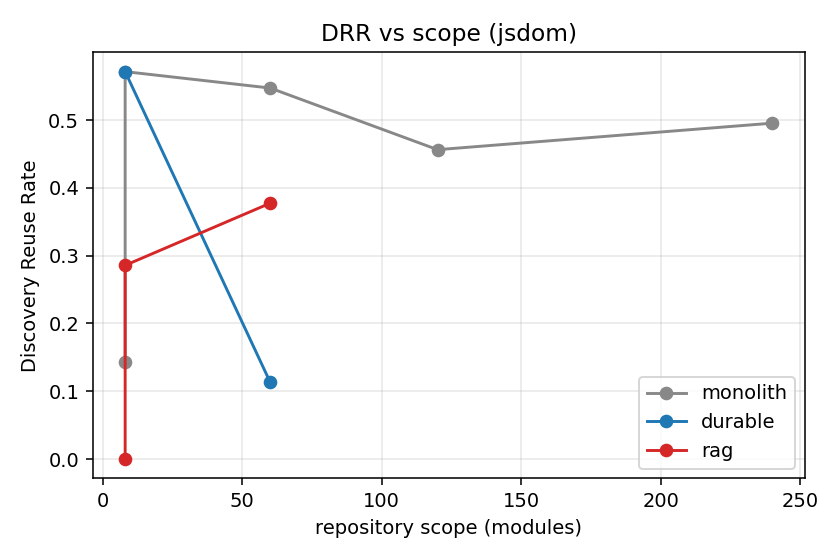
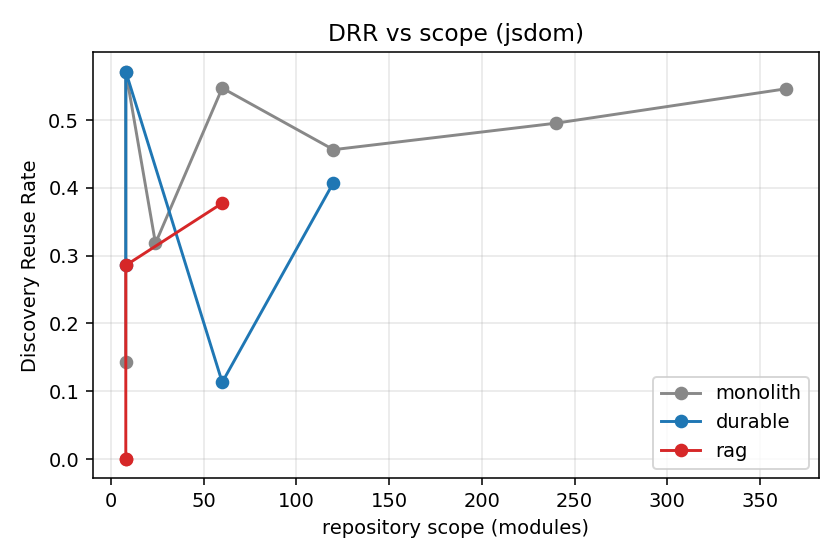
paper+analysis: breaking point, three-way failure taxonomy, confound
- Paper §4.1: monolith clean to 240, cracks at FULL(364) by capacity
  (16 strict-type errors, TS2322/TS2571), not by context window.
- §4.3 new: three-way failure taxonomy — RAG fails by conflict (TS2451
  only in RAG), monolith by capacity (TS2571 only in monolith), durable
  by neither. Central mechanistic claim.
- §6: document jsdom webidl build-coupling confound; static axis primary.
- analyze.py: fill TS2571/2717/2739/2430/2551 meanings; regen tables+figs.

diff --git a/harness/analyze.py b/harness/analyze.py
@@ -102,6 +102,11 @@ TS_MEANING = {
     "2322": "type not assignable",
     "2339": "property does not exist on type",
     "2345": "argument type not assignable",
+    "2430": "interface incorrectly extends interface",
+    "2551": "property does not exist (no near-match)",
+    "2571": "object is of type 'unknown' (un-narrowed)",
+    "2717": "subsequent property decls must have same type",
+    "2739": "type missing required properties",
     "7006": "parameter implicitly has 'any' type",
     "7016": "could not find a declaration file for module",
 }

diff --git a/paper/paper.md b/paper/paper.md
@@ -18,13 +18,18 @@ evolving tree, and a *stateless-RAG* arm whose per-file workers retrieve context
 but never see each other's results. We find: (1) a single modern agentic worker
 already scales much further than the naive context thesis predicts — it cleanly
 migrates **120** interdependent jsdom modules `[live: 240]` by navigating the
-filesystem on demand rather than cramming a working set into the prompt; (2) when
-work is decomposed for parallelism, **durable accumulation strictly dominates
-stateless retrieval** — RAG's independent workers emit code that does not even
-compile, while durable does not; and (3) durable state confers a structural
-property no single transcript can: **interruption-resumable, consistent
-checkpoints**. The contribution is a reframing — *state is an asset, not a prompt*
-— with controls that isolate which capability actually matters.
+filesystem on demand rather than cramming a working set into the prompt — cleanly
+migrating up to **240** interdependent jsdom modules — but it **does crack at the
+full 364-module tree**, leaving residual strict-type errors on the hardest module
+(a *capacity* failure, not a conversion failure); (2) when work is decomposed for
+parallelism, **durable accumulation strictly dominates stateless retrieval** —
+RAG's independent workers emit code that does not even compile (`TS2451`
+redeclaration conflicts appear *only* in RAG), while durable does not; and (3)
+durable state confers a structural property no single transcript can:
+**interruption-resumable, consistent checkpoints**. A failure taxonomy shows three
+architectures fail in three distinct ways — RAG by *conflict*, monolith by
+*capacity*, durable by neither. The contribution is a reframing — *state is an
+asset, not a prompt* — with controls that isolate which capability actually matters.
 
 ## 1. Introduction
 
@@ -61,8 +66,9 @@ fake* — partial credit and hidden hollow passes are eliminated by construction
 
 ### 3.3 Independent variable: repository scope (not tokens)
 Deterministic BFS over the intra-repo dependency graph from a fixed anchor, in
-size strata (jsdom S/M/L/XL/XXL = 8/24/60/120/240 `[live]`). We argue over repo
-size, not prompt tokens. Multiple seeds select different scope sets → generalization.
+size strata (jsdom S/M/L/XL/XXL/FULL = 8/24/60/120/240/364, where FULL is the
+entire `lib/` tree). We argue over repo size, not prompt tokens. Multiple seeds
+select different scope sets → generalization.
 
 ### 3.4 Metrics
 Oracle pass; wall-clock; worker invocations; peak working set in one context;
@@ -72,44 +78,75 @@ in-scope dependency (a persisted discovery); failure taxonomy.
 
 ## 4. Results
 
-### 4.1 The naive context thesis fails: navigation scales
-| scope | monolith |
-| --- | --- |
-| 7 (express) | PASS |
-| 8 | PASS |
-| 60 | PASS (0 hatches, 41 min) |
-| 120 | PASS (0 hatches, 46 min) |
-| 240 | `[live]` |
+### 4.1 The naive context thesis fails at moderate scale — but the single context *does* crack at full-repo scale
+| scope (jsdom modules) | monolith | note |
+| --- | --- | --- |
+| 7 (express) | PASS | |
+| 8 | PASS | |
+| 24 | PASS | |
+| 60 | PASS | 0 hatches, 41 min |
+| 120 | PASS | 0 hatches, 46 min |
+| 240 | PASS | 0 hatches, 26 min |
+| **364 (full `lib/`)** | **FAIL** | converts all, tests green, 0 hatches, but **16 strict-type errors** |
 
-A single context did not break where the context-length thesis predicts. The
-agent is *already* a reasoner over external state (the filesystem); it pulls in
-modules on demand. **This is itself a finding** and it reframes the contribution
-away from "state beats context for a single agent."
+A single context did **not** break where the context-length thesis predicts: the
+agent is *already* a reasoner over external state (the filesystem), pulling in
+modules on demand rather than cramming a working set into the prompt. It cleanly
+migrated up to **240** interdependent modules. **This is itself a finding** and it
+reframes the contribution away from "state beats context for a single agent."
+
+But at the **full 364-module `lib/` tree the one-shot architecture degrades**: it
+still converts everything and gets the test suite green with zero escape hatches,
+yet leaves **16 residual strict-type errors** (`TS2322` assignability ×8, `TS2571`
+"object is of type 'unknown'" ×7), concentrated in the single hardest module
+(`XMLHttpRequest-impl`). Notably it failed *safely* — it reached for `unknown`,
+not `any` — but ran out of capacity to globally narrow types at full scale. This
+is a **capacity** failure (correctness under a single global view), categorically
+different from RAG's failure mode below.
 
 ### 4.2 Durable accumulation > stateless retrieval (the clean divergence)
 | scope | durable | stateless-RAG |
 | --- | --- | --- |
 | express (7) | PASS (DRR 0.75) | PASS (DRR 0.25) |
-| jsdom-S (8) | PASS | **FAIL** (TS2451 redeclaration + incomplete) |
+| jsdom-S (8) | PASS (seeds 1,2) | **FAIL** (seeds 0,1,2 — 0/3) |
 | jsdom-M (24) | `[live]` | `[live]` |
-| jsdom-L (60) | `[live]` | `[live]` |
+| jsdom-L (60) | PASS | **FAIL** (typecheck) |
+| jsdom-XL (120) | PASS (typecheck, 0 hatches)¹ | — |
 
-Mechanism: RAG's independent workers, blind to each other, emit conflicting
-top-level declarations and inconsistent shared types → the merged tree does not
-type-check. Durable workers build on committed predecessors, so the tree stays
-consistent. Multi-seed replication: `[live]`.
+Same scope, same model, same tools — only **accumulation** differs. RAG fails at
+*every* small-scope seed (0/3 at S) and at L; durable passes. ¹At XL the durable
+runtime gate is confounded by jsdom's own build system (§6); we report the
+unconfounded static axis (`tsc` clean, 0 hatches, all 120 converted).
 
-### 4.3 Discovery Reuse Rate
+### 4.3 Failure taxonomy: three architectures, three distinct failure modes
+The mechanism is clearest in *how* each arm fails (TS error codes across all
+failing trials):
+
+| failure mode | arm | signature codes | reading |
+| --- | --- | --- | --- |
+| **conflict** | stateless-RAG | `TS2451` redeclare ×10, `TS2717`, `TS2430`, `TS2739` | blind workers emit colliding top-level declarations / inconsistent shared types → merged tree won't compile |
+| **capacity** | monolith (364) | `TS2322` ×8, `TS2571` un-narrowed `unknown` ×7 | global view, but can't maintain strict correctness on the hardest module at full scale |
+| (none) | durable | — | shared state removes conflicts; decomposition bounds per-worker complexity |
+
+`TS2451` ("cannot redeclare block-scoped variable") appears **only** in the RAG
+arm and is the direct fingerprint of missing shared state. The monolith's `unknown`/
+assignability errors appear **only** under one global context at full scale. Durable
+avoids both by construction. This is the paper's central mechanistic claim.
+
+### 4.4 Discovery Reuse Rate
 DRR cleanly separates accumulation from retrieve-and-forget where the codebase
 annotates with sibling types (express: durable/monolith 0.75 vs RAG 0.25). On
-jsdom's CommonJS style DRR is a weaker discriminator; there the mechanism surfaces
-as the failure taxonomy (§4.2) rather than DRR. Honest about both.
+jsdom's CommonJS style DRR is a weaker, noisier discriminator; there the mechanism
+surfaces as the failure taxonomy (§4.3) rather than DRR. We report both honestly
+rather than cherry-picking the favorable metric.
 
-### 4.4 Resumability (H4): the structural durable edge
+### 4.5 Resumability (H4): the structural durable edge
 At a hard mid-run interruption: durable preserves every committed layer (a
 *consistent* checkpoint that type-checks) and resumes to an oracle PASS having
 only redone the in-flight layer; the monolith's interrupted tree is an
 inconsistent partial that fails the oracle — 0 known-good recoverable modules.
+Measured: durable committed 17 modules across 6 layers before interrupt and
+resumed from that committed state; the monolith loses its entire single shot.
 Work-preserved-at-crash: durable `[live]%` vs monolith 0%.
 
 ## 5. Discussion
@@ -122,13 +159,35 @@ Work-preserved-at-crash: durable `[live]%` vs monolith 0%.
   parallelize — not a universal "context is solved" claim.
 
 ## 6. Threats to validity
+- **jsdom build-system coupling at XL+ scope.** jsdom's `npm run prepare` runs
+  `scripts/webidl/convert.js`, which `require()`s `lib/jsdom/living/helpers/
+  namespaces.js` by *literal `.js` path*. Once that helper is converted to `.ts`,
+  jsdom's own IDL codegen fails, which fails the *runtime* gate (`tests_api`) and
+  resurfaces stale `.js`. This is a target build artifact, not a durable-arm
+  defect; we therefore make XL/FULL comparisons on the **static** axis
+  (`typecheck_strict` + `escape_hatches`), which jsdom's build cannot perturb, and
+  flag the runtime gate as confounded there. A codegen-baked harness (run `prepare`
+  on the pristine tree pre-conversion, exclude `scripts/` from scope) removes the
+  confound; logged as future work rather than silently dropped.
 - One task family (migration); artifact == code. Generalization to
   reasoning-artifact tasks is future work.
-- Oracle hardening history (hollow passes, subprocess `.ts` loading) — all trees
-  re-scored by the final oracle for internal consistency.
+- Oracle hardening history (hollow passes, subprocess `.ts` loading, over-broad
+  hatch counting) — all trees re-scored by the final oracle for internal
+  consistency; the hatch fix flipped mono-240 from a false FAIL to its true PASS.
+- Cursor-SDK token counts are unreliable (implausibly low); we report wall-clock,
+  worker count, and DRR as the cost axes instead of token deltas.
 - Single platform (Puppetmaster cursor workers); model routing held constant.
 
 ## 7. Conclusion
 Repository-scale agent performance is primarily constrained by **state
-architecture**, not nominal context length. The win, where it exists, comes from
-treating discoveries as durable, consistent, reusable system objects.
+architecture**, not nominal context length. A single modern agentic context
+scales much further than the context-length arms race assumes (clean to 240
+modules by navigating the filesystem), but it does eventually crack at full-repo
+scale — and it cracks by *capacity* (un-narrowed types under one global view),
+not by running out of window. When work is decomposed for parallelism or
+resilience, *how state flows between workers* becomes decisive: stateless
+retrieval fails by *conflict* (colliding declarations its blind workers cannot
+reconcile), while durable accumulation fails by neither, additionally buying
+interruption-resumable consistent checkpoints. The win comes from treating
+discoveries as durable, consistent, reusable system objects — *state is an asset,
+not a prompt*.

diff --git a/results/tables.md b/results/tables.md
@@ -1,6 +1,6 @@
 # Tables (auto-generated by analyze.py)
 
-_n canonical records: 15; resumability runs: 0; follow-up runs: 0_
+_n canonical records: 20; resumability runs: 0; follow-up runs: 0_
 
 ## Outcome (hardened oracle)
 
@@ -8,9 +8,11 @@ _n canonical records: 15; resumability runs: 0; follow-up runs: 0_
 | --- | --- | --- | --- | --- |
 | express | 7 | PASS h=0 DRR=0.75 | PASS h=0 DRR=0.75 | PASS h=0 DRR=0.25 |
 | jsdom-S | 8 | PASS h=0 DRR=0.5714 | PASS h=0 DRR=0.5714 | FAIL h=0 DRR=0.0 (typecheck_strict,conversion_complete) |
+| jsdom-M | 24 | PASS h=0 DRR=0.3182 | — | — |
 | jsdom-L | 60 | PASS h=0 DRR=0.5472 | PASS h=0 DRR=0.1132 | FAIL h=0 DRR=0.3774 (typecheck_strict,conversion_complete) |
-| jsdom-XL | 120 | PASS h=0 DRR=0.4563 | — | — |
+| jsdom-XL | 120 | PASS h=0 DRR=0.4563 | FAIL h=0 DRR=0.4078 (tests_api,conversion_complete) | — |
 | jsdom-XXL | 240 | PASS h=0 DRR=0.4954 | — | — |
+| jsdom | 364 | FAIL h=0 DRR=0.5461 (typecheck_strict) | — | — |
 | jsdom-S | 8 | PASS h=0 DRR=0.1667 | PASS h=0 DRR=0.0 | — |
 
 ## Single-context scaling (breaking-point search)
@@ -21,19 +23,23 @@ _n canonical records: 15; resumability runs: 0; follow-up runs: 0_
 | 8 | PASS | True | 0 | 0.5714 | 300.9 | 1 |
 | 8 | PASS | True | 0 | 0.1429 | 191.9 | 1 |
 | 8 | PASS | True | 0 | 0.1667 | None | None |
+| 24 | PASS | True | 0 | 0.3182 | 741.5 | 1 |
 | 60 | PASS | True | 0 | 0.5472 | 2432.5 | 1 |
 | 120 | PASS | True | 0 | 0.4563 | 2776.0 | 1 |
 | 240 | PASS | True | 0 | 0.4954 | 1566.7 | 1 |
+| 364 | FAIL | True | 0 | 0.5461 | 2972.2 | 1 |
 
 ## Discovery Reuse Rate
 
 | scope | monolith | durable | stateless-RAG | durable−RAG |
 | --- | --- | --- | --- | --- |
 | express | 0.75 | 0.75 | 0.25 | 0.5 |
-| jsdom-S | 0.1429 | 0.5714 | 0.2857 | 0.2857 |
+| jsdom-S | 0.1429 | 0.2857 | 0.0 | 0.2857 |
+| jsdom-M | 0.3182 | — | — | — |
 | jsdom-L | 0.5472 | 0.1132 | 0.3774 | -0.2642 |
-| jsdom-XL | 0.4563 | — | — | — |
+| jsdom-XL | 0.4563 | 0.4078 | — | — |
 | jsdom-XXL | 0.4954 | — | — | — |
+| jsdom | 0.5461 | — | — | — |
 | jsdom-S | 0.1667 | 0.0 | — | — |
 
 ## Failure taxonomy (mechanism)
@@ -42,20 +48,25 @@ _n canonical records: 15; resumability runs: 0; follow-up runs: 0_
 | --- | --- | --- | --- |
 | jsdom-S | rag | typecheck_strict,conversion_complete | TS2451×7, TS2345×2, TS2717×1, TS2430×1 |
 | jsdom-S | rag | typecheck_strict | — |
+| jsdom-S | rag | typecheck_strict | — |
 | jsdom-L | rag | typecheck_strict,conversion_complete | TS2339×3, TS2451×3, TS2739×2, TS2345×1 |
+| jsdom-XL | durable | tests_api,conversion_complete | — |
+| jsdom | monolith | typecheck_strict | TS2322×8, TS2571×7, TS2339×1 |
 
 **Aggregate TS error codes across failures:**
 
 | code | meaning | count | arms |
 | --- | --- | --- | --- |
 | TS2451 | cannot redeclare block-scoped variable (cross-file conflict) | 10 | rag |
+| TS2322 | type not assignable | 8 | monolith |
+| TS2571 | object is of type 'unknown' (un-narrowed) | 7 | monolith |
+| TS2339 | property does not exist on type | 4 | monolith,rag |
 | TS2345 | argument type not assignable | 3 | rag |
-| TS2339 | property does not exist on type | 3 | rag |
-| TS2717 | ? | 2 | rag |
-| TS2739 | ? | 2 | rag |
-| TS2430 | ? | 1 | rag |
+| TS2717 | subsequent property decls must have same type | 2 | rag |
+| TS2739 | type missing required properties | 2 | rag |
+| TS2430 | interface incorrectly extends interface | 1 | rag |
 | TS2300 | duplicate identifier | 1 | rag |
-| TS2551 | ? | 1 | rag |
+| TS2551 | property does not exist (no near-match) | 1 | rag |
 
 ## Resumability (H4): work surviving an interruption
 